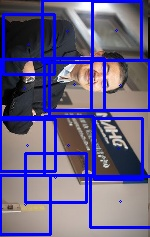
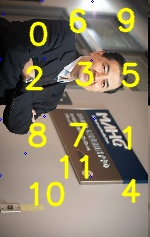
sort

diff --git a/Puzzle.py b/Puzzle.py
@@ -78,29 +78,20 @@ class PuzzleSolver():
             cv2.rectangle(display, top_left, bottom_right, (255, 0, 0), 2)
             mid = (int(top_left[0] + w/2), int(top_left[1] + h/2))
             cv2.circle(display, mid, 1, 255, 1)
-            # cv2.putText(display, f"{idx}", mid, cv2.FONT_HERSHEY_SIMPLEX, 4, (0, 255, 255), 10, cv2.LINE_AA)
-            print("\nsaving result at ./results/" + self.name + "/matched.jpg")
+            cv2.putText(display, f"{idx}", mid, cv2.FONT_HERSHEY_SIMPLEX, 1, (0, 255, 255), 2, cv2.LINE_AA)
+            # print("\nsaving result at ./results/" + self.name + "/matched.jpg")
             cv2.imwrite("./results/" + self.name + '/matched.jpg', display)
 
             piece.orientation = phi_idx + piece.orientation
-            # for m in range(len(middles)):
-            #     if math.floor((middles[m][1])/self.original.shape[0] * 4) == math.floor((top_left[1] + w/2)/self.original.shape[0] * 4) and \
-            #        math.floor((middles[m][0])/self.original.shape[1] * 3) == math.floor((top_left[0] + h/2)/self.original.shape[1] * 3):
-            #         if middles[m][1] > top_left[1] + w/2:
-            #             middles[m][1] += 
-            #         else:
+            middles[idx] = [top_left[1] + h/2, top_left[0] + w/2]
 
-            #         if middles[m]:
-
-            # middles[idx] = [math.floor((top_left[1] + w/2)/self.original.shape[0] * 4), math.floor((top_left[0] + h/2)/self.original.shape[1] * 3)]
-
-            middles[idx] = [top_left[1] + w/2, top_left[0] + h/2]
-
-        np.argsort(middles, axis=1, kind='quicksort', order=None)
-        for 
+        order = np.argsort(middles, axis=0)
+        print(order)
+        for idx, piece in enumerate(self.pieces):
+            piece.target = [math.floor((order[idx][0])/3), math.floor((order[idx][1])/4)]
             print(f'angle: {piece.orientation}\ttarget: {piece.target}')
-            
-
+           
+        
     def save_result(self, path):
         info = dict()
         for idx, p in enumerate(self.pieces):
